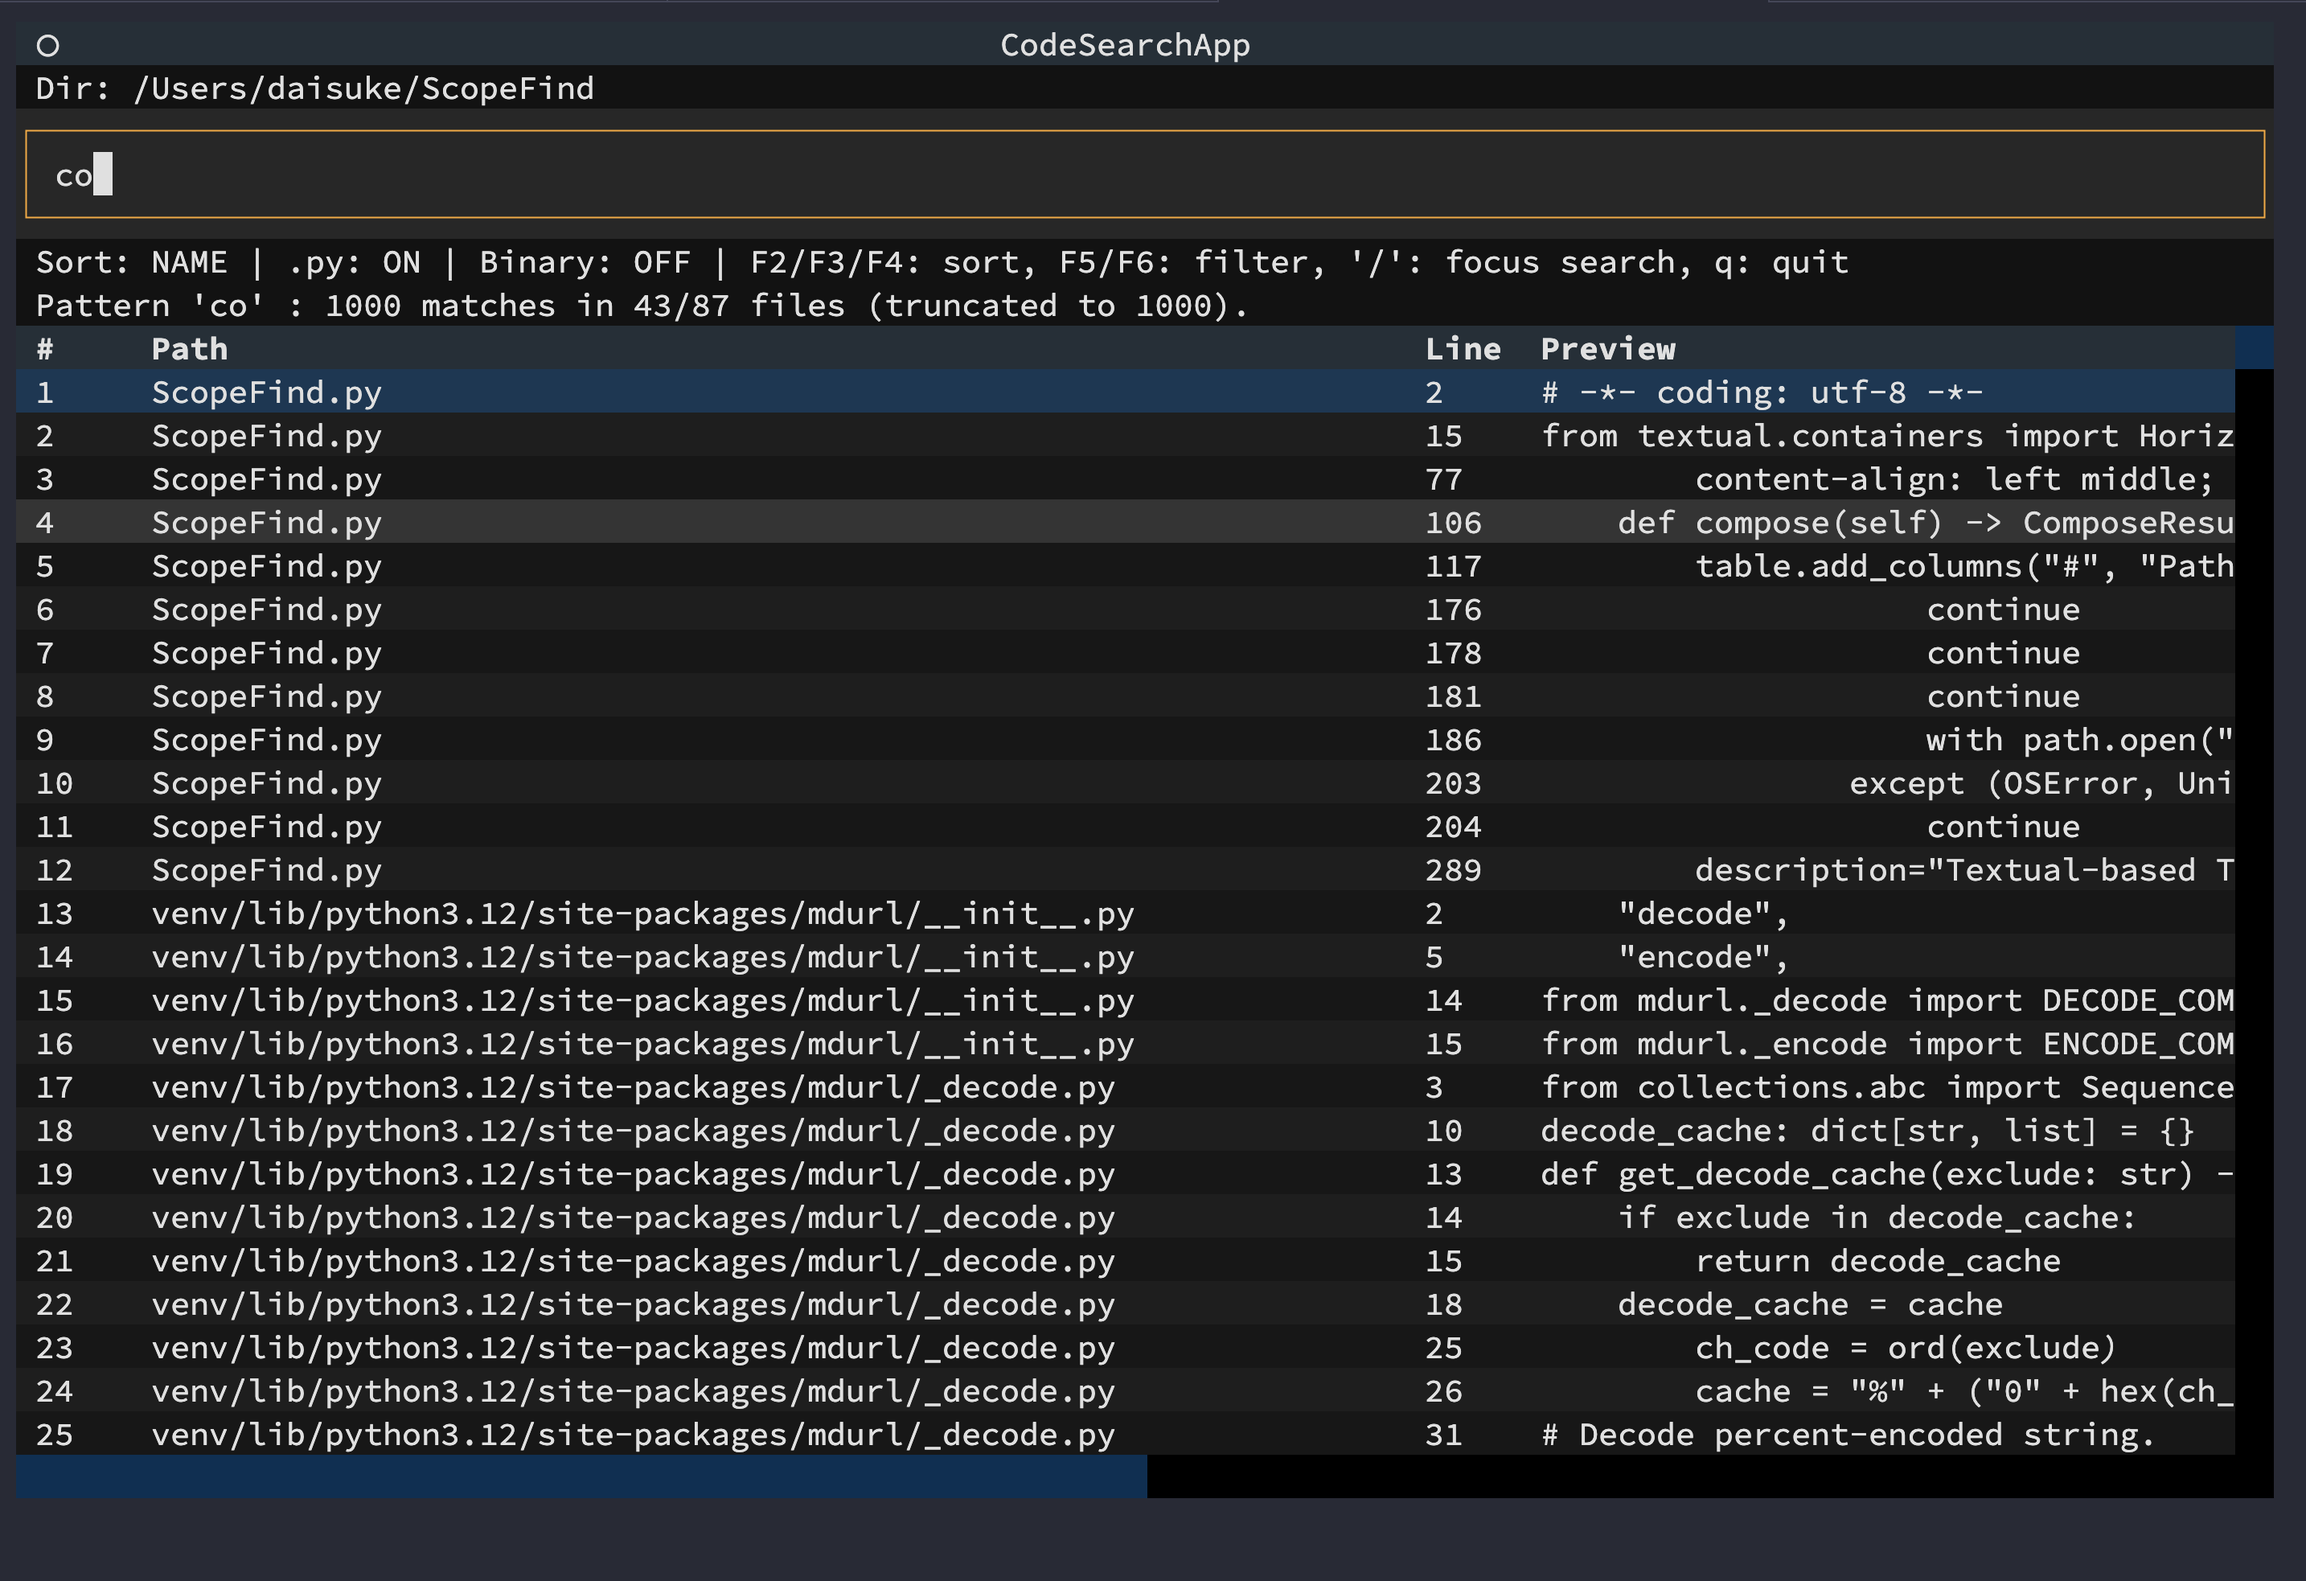
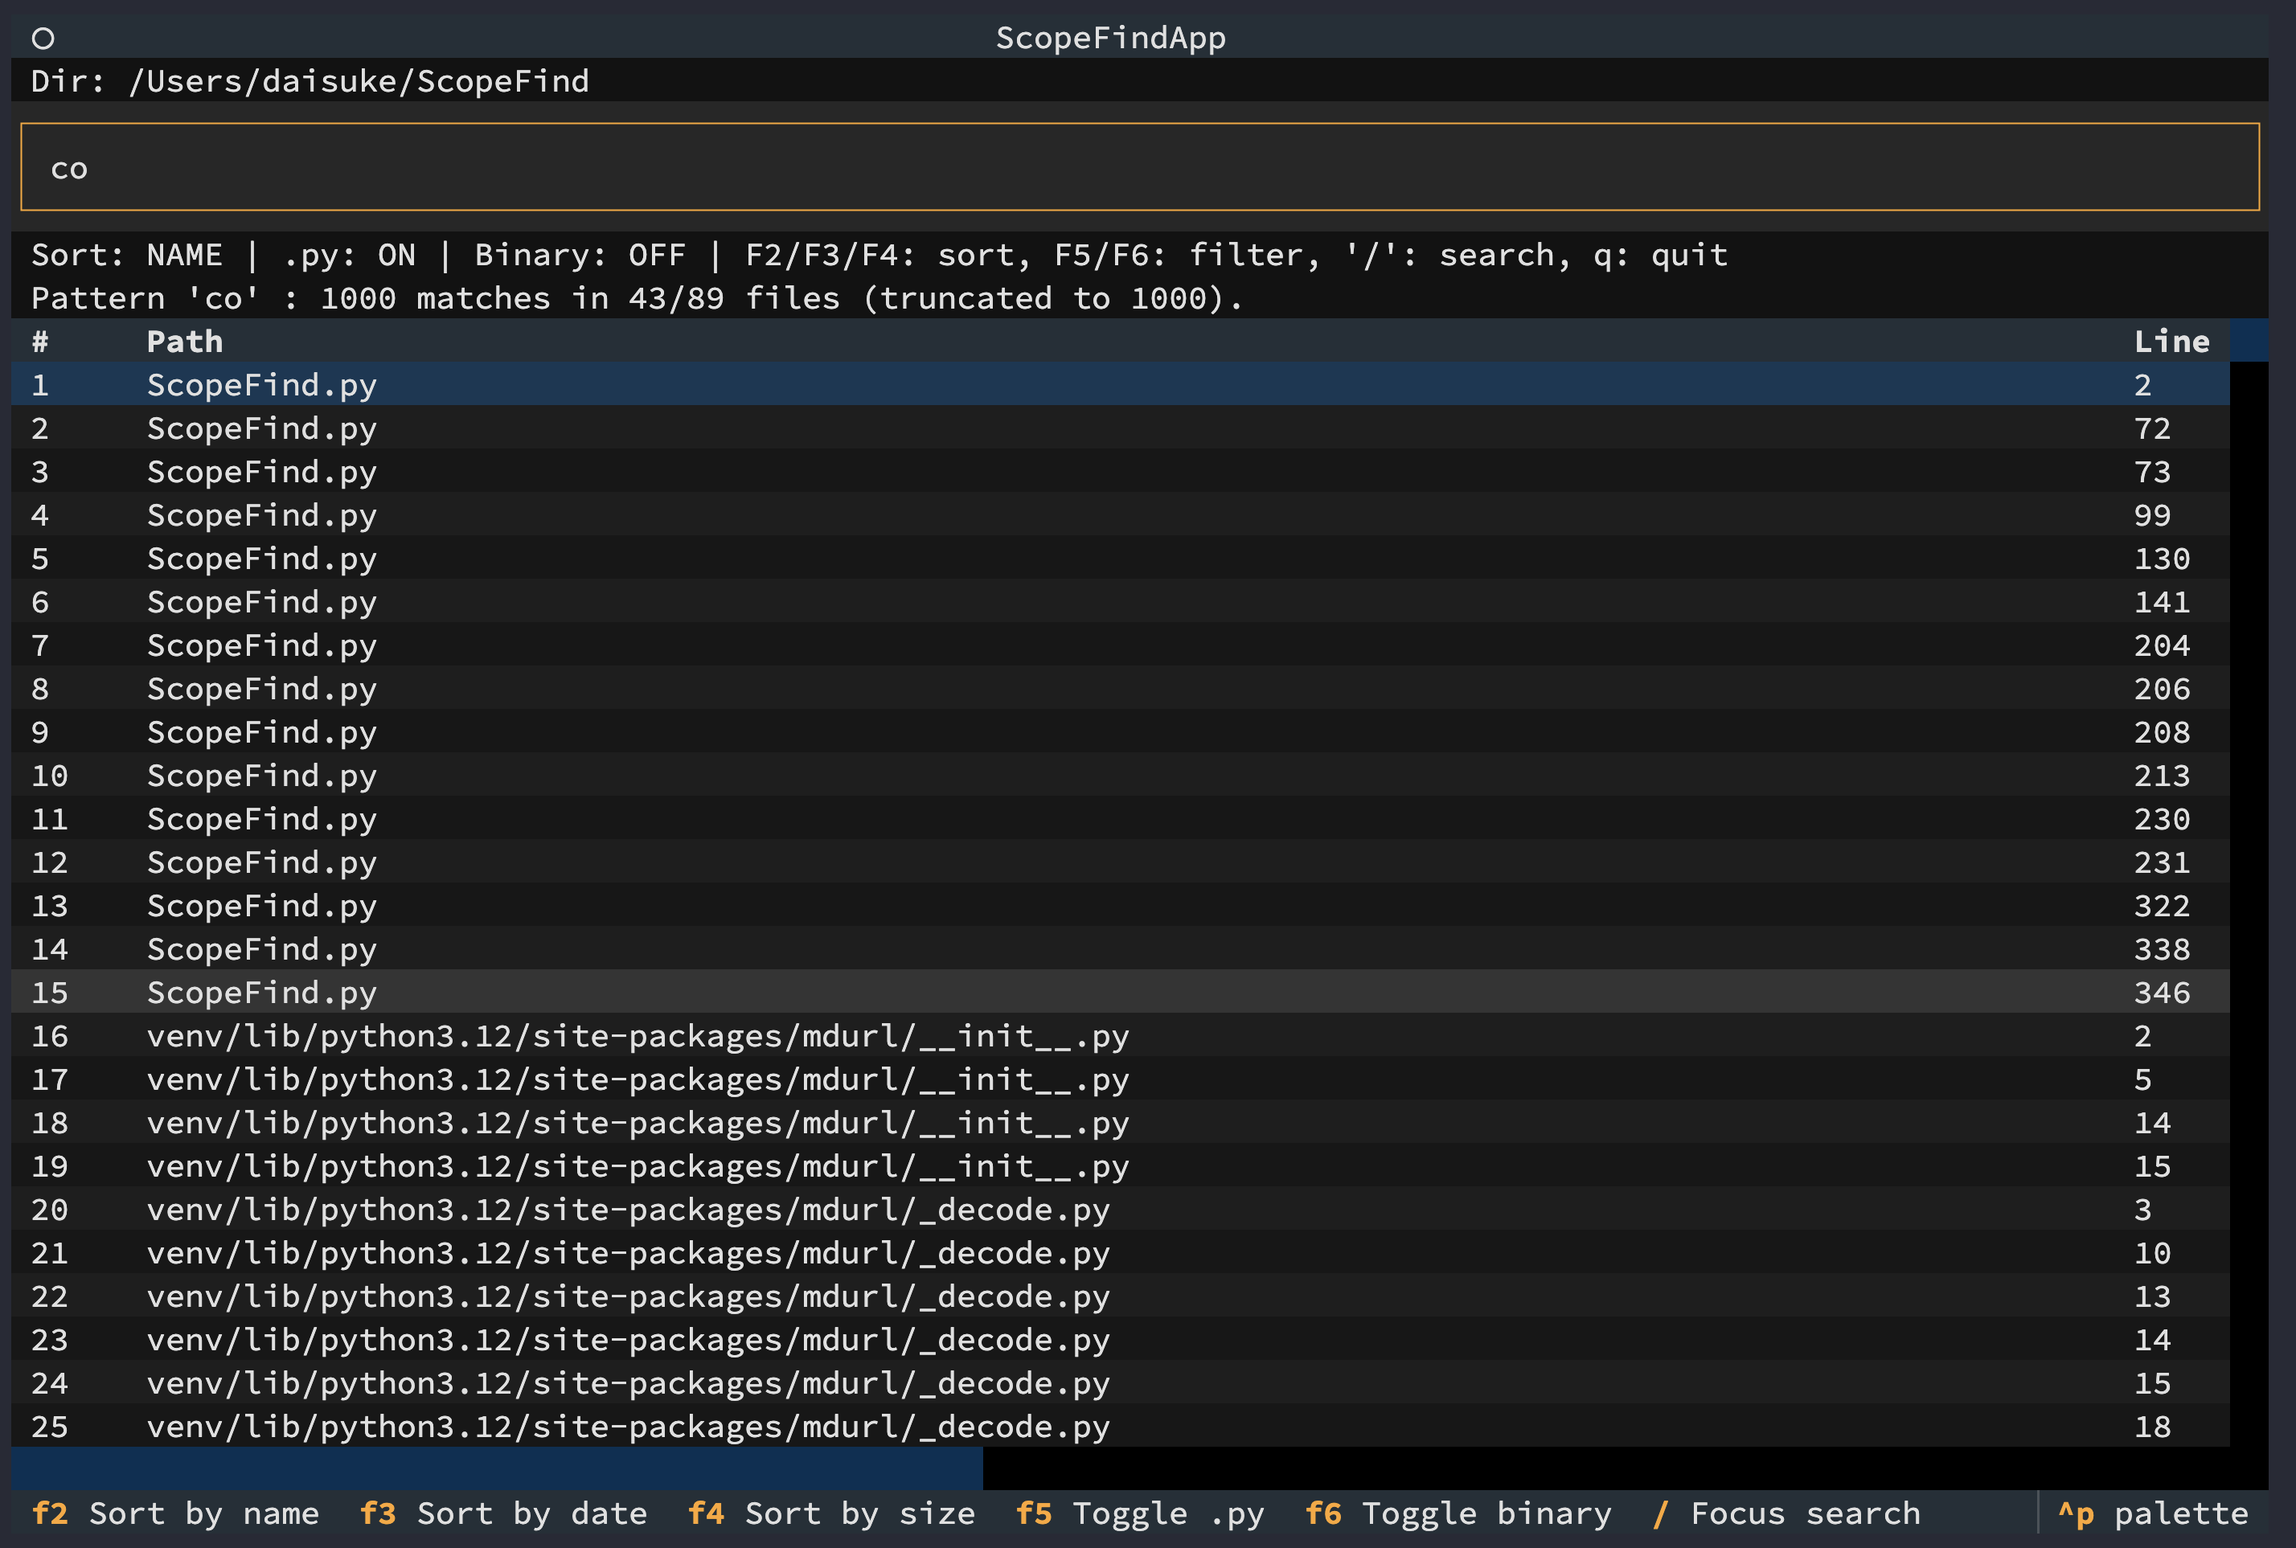
Improved release process and added ability to set version from tag. Updated metadata in ScopeFind.py and changed app name. Added binary file check and improved CLI entry point. Updated demo images.

diff --git a/ScopeFind.py b/ScopeFind.py
@@ -12,9 +12,18 @@ from pathlib import Path
 from typing import List
 
 from textual.app import App, ComposeResult
-from textual.containers import Horizontal
 from textual.widgets import Header, Footer, Input, DataTable, Static
 
+
+# ==============================
+#  App Metadata
+# ==============================
+__version__ = "dev"
+
+
+# ==============================
+#  Ignore & Filters
+# ==============================
 IGNORE_DIRS = {
     ".git",
     ".hg",
@@ -29,7 +38,11 @@ SEARCH_EXTS = {".py", ".ipynb"}
 MAX_MATCHES = 1000
 
 
+# ==============================
+#  Binary File Check
+# ==============================
 def is_binary_file(path: Path, blocksize: int = 1024) -> bool:
+    """簡易バイナリ判定: 先頭 blocksize バイト中に NUL があればバイナリとみなす。"""
     try:
         with path.open("rb") as f:
             chunk = f.read(blocksize)
@@ -37,9 +50,13 @@ def is_binary_file(path: Path, blocksize: int = 1024) -> bool:
                 return False
             return b"\0" in chunk
     except OSError:
+        # 読めないファイルは一旦バイナリ扱いにして除外
         return True
 
 
+# ==============================
+#  Data Model
+# ==============================
 @dataclass
 class Match:
     path: Path
@@ -49,7 +66,12 @@ class Match:
     size: int
 
 
-class CodeSearchApp(App):
+# ==============================
+#  UI Application
+# ==============================
+class ScopeFindApp(App):
+    """Textual based TUI incremental code search tool."""
+
     CSS = """
     Screen {
         layout: vertical;
@@ -103,10 +125,12 @@ class CodeSearchApp(App):
         self.sort_key: str = "name"
         self.matches: List[Match] = []
 
+    # --------------- UI Layout ---------------
+
     def compose(self) -> ComposeResult:
         yield Header()
         yield Static(f"Dir: {self.start_dir}", id="dir_label")
-        yield Input(placeholder="Search pattern (literal match, not regex)", id="pattern_input")
+        yield Input(placeholder="Search pattern (literal match)", id="pattern_input")
         yield Static("", id="toolbar")
         yield Static("Enter pattern to search.", id="status")
         yield DataTable(id="results")
@@ -121,6 +145,8 @@ class CodeSearchApp(App):
         self.update_toolbar()
         self.update_status("Enter pattern to search.")
 
+    # --------------- UI Helpers ---------------
+
     def update_toolbar(self) -> None:
         sort_name = {"name": "NAME", "date": "DATE", "size": "SIZE"}[self.sort_key]
         py_label = "ON" if self.include_py else "OFF"
@@ -129,7 +155,7 @@ class CodeSearchApp(App):
             f"Sort: {sort_name} | "
             f".py: {py_label} | "
             f"Binary: {bin_label} | "
-            f"F2/F3/F4: sort, F5/F6: filter, '/': focus search, q: quit"
+            f"F2/F3/F4: sort, F5/F6: filter, '/': search, q: quit"
         )
         self.query_one("#toolbar", Static).update(toolbar)
 
@@ -139,7 +165,6 @@ class CodeSearchApp(App):
     def refresh_table(self) -> None:
         table = self.query_one("#results", DataTable)
         table.clear()
-
         if not self.matches:
             return
 
@@ -151,6 +176,8 @@ class CodeSearchApp(App):
             size_str = str(m.size)
             dt_str = datetime.fromtimestamp(m.mtime).strftime("%Y-%m-%d %H:%M")
             table.add_row(str(idx), relpath, str(m.lineno), preview, size_str, dt_str)
+
+    # --------------- Search Logic ---------------
 
     def run_search(self) -> None:
         pat = self.pattern
@@ -170,13 +197,13 @@ class CodeSearchApp(App):
             for name in files:
                 total_files += 1
                 path = Path(root) / name
-
                 ext = path.suffix
+
+                # 拡張子 & バイナリフィルタ
                 if ext not in SEARCH_EXTS:
                     continue
                 if ext == ".py" and not self.include_py:
                     continue
-
                 if not self.include_binary and is_binary_file(path):
                     continue
 
@@ -210,17 +237,16 @@ class CodeSearchApp(App):
         self.sort_matches()
 
         if matches:
-            extra = ""
-            if len(matches) >= MAX_MATCHES:
-                extra = f" (truncated to {MAX_MATCHES})"
+            extra = f" (truncated to {MAX_MATCHES})" if len(matches) >= MAX_MATCHES else ""
             self.update_status(
-                f"Pattern '{pat}' : {len(matches)} matches "
-                f"in {used_files}/{total_files} files{extra}."
+                f"Pattern '{pat}' : {len(matches)} matches in {used_files}/{total_files} files{extra}."
             )
         else:
             self.update_status(f"No matches for: '{pat}'")
 
         self.refresh_table()
+
+    # --------------- Sort ---------------
 
     def sort_matches(self) -> None:
         if not self.matches:
@@ -233,10 +259,14 @@ class CodeSearchApp(App):
         elif self.sort_key == "size":
             self.matches.sort(key=lambda m: (m.size, str(m.path)), reverse=True)
 
+    # --------------- Event Handlers ---------------
+
     def on_input_changed(self, event: Input.Changed) -> None:
         if event.input.id == "pattern_input":
             self.pattern = event.value
             self.run_search()
+
+    # --------------- Key Actions ---------------
 
     def action_focus_search(self) -> None:
         self.query_one("#pattern_input", Input).focus()
@@ -284,9 +314,12 @@ class CodeSearchApp(App):
             pass
 
 
+# ==============================
+#  CLI Entry Point
+# ==============================
 def main() -> None:
     parser = argparse.ArgumentParser(
-        description="Textual-based TUI code search (.py, .ipynb)."
+        description="ScopeFind: Fast incremental code search tool (Python + Textual)."
     )
     parser.add_argument(
         "start_dir",
@@ -294,17 +327,25 @@ def main() -> None:
         default=".",
         help="Search start directory (default: current directory)",
     )
+    parser.add_argument(
+        "--version",
+        action="store_true",
+        help="Show version information and exit",
+    )
     args = parser.parse_args()
+
+    if args.version:
+        print(f"ScopeFind v{__version__}")
+        sys.exit(0)
 
     start_dir = Path(args.start_dir).resolve()
     if not start_dir.is_dir():
         print(f"Not a directory: {start_dir}", file=sys.stderr)
         sys.exit(1)
 
-    app = CodeSearchApp(start_dir=start_dir)
+    app = ScopeFindApp(start_dir=start_dir)
     app.run()
 
 
 if __name__ == "__main__":
     main()
-
